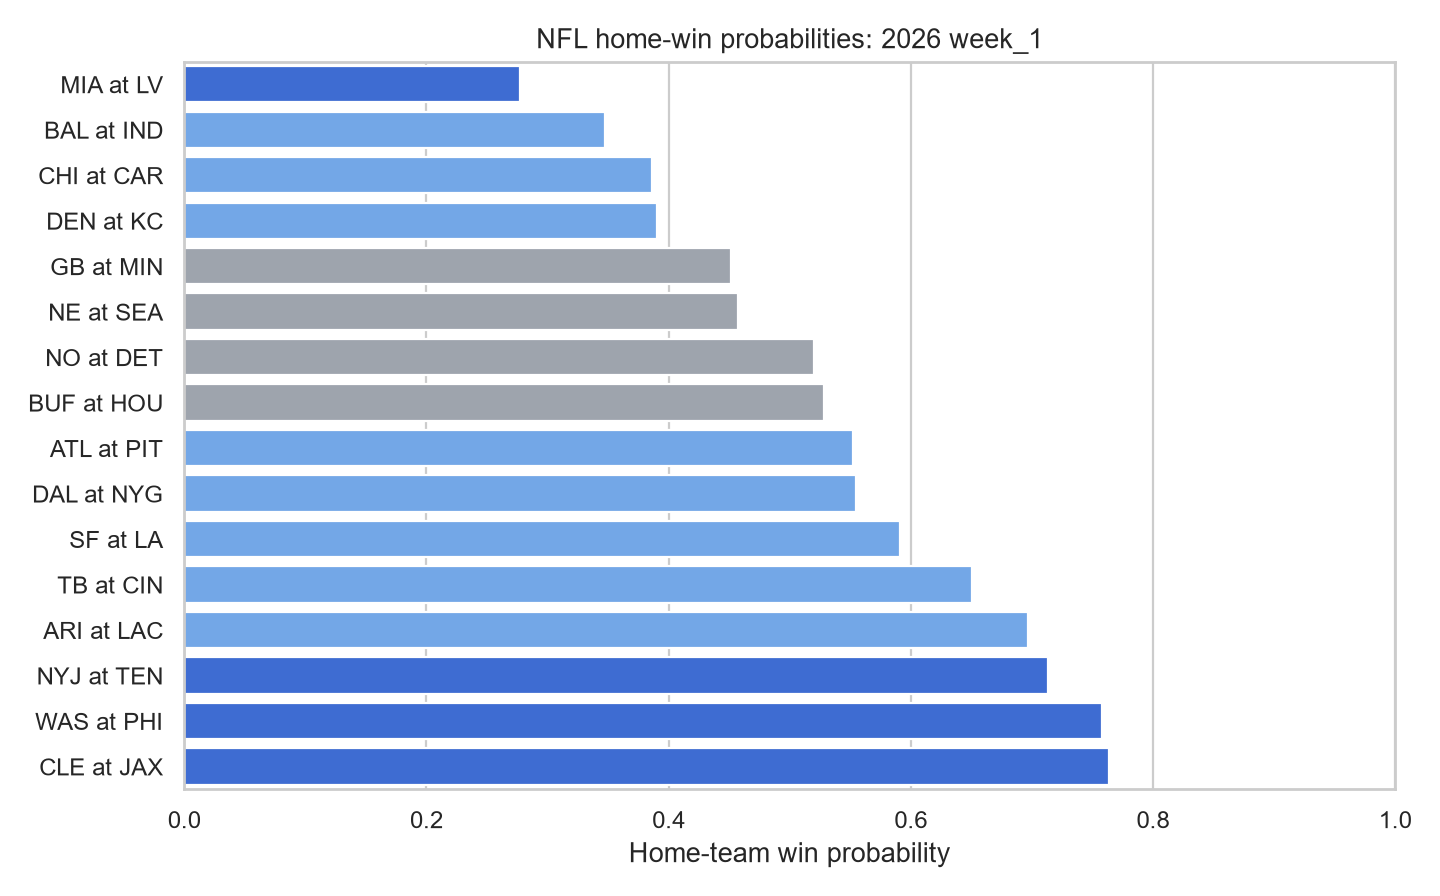
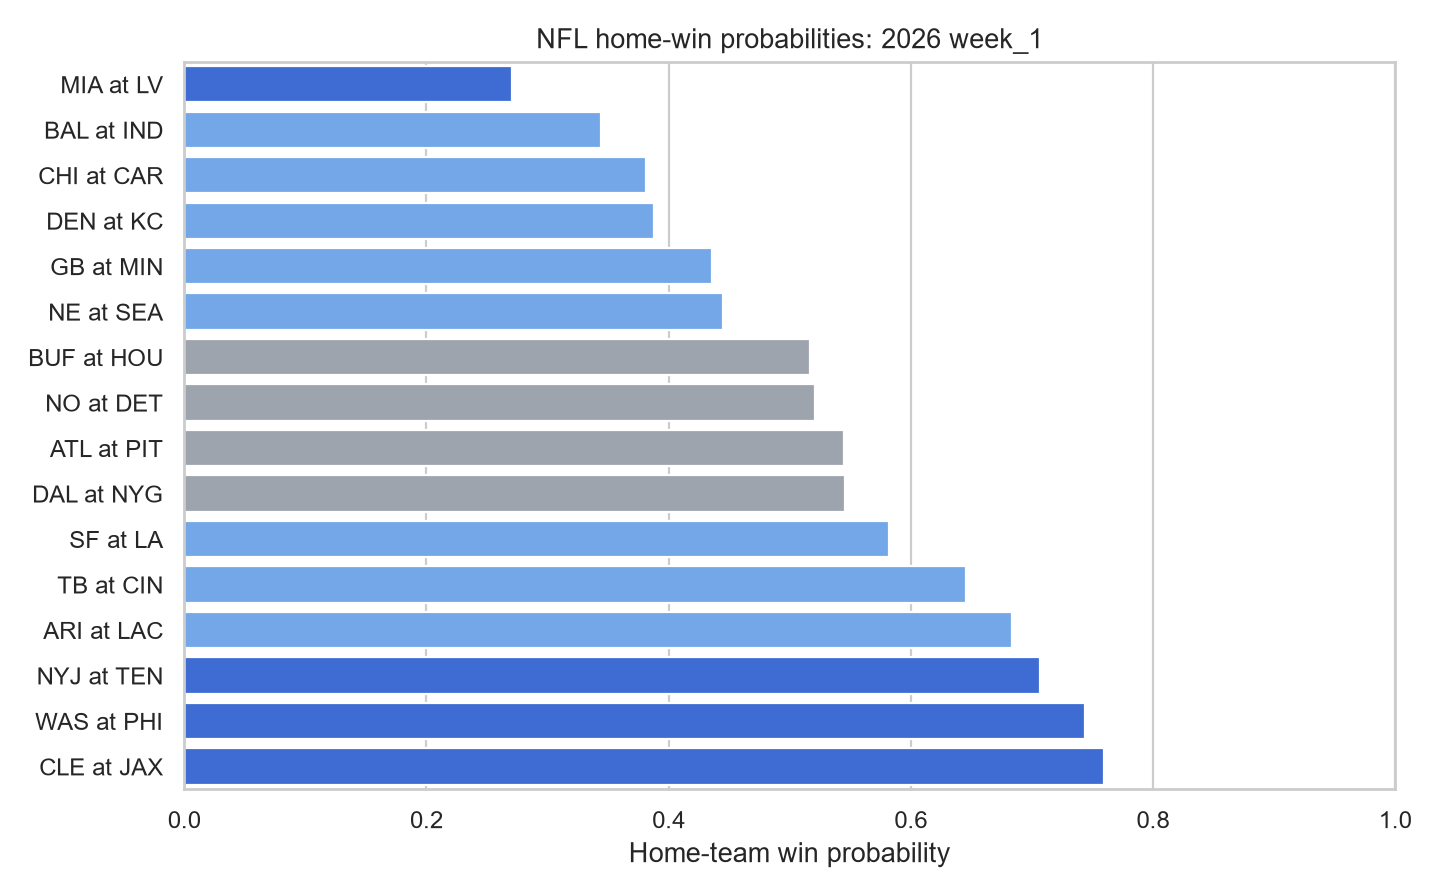
artifacts: verify calibrated weekly predictions

diff --git a/scripts/predict_week.py b/scripts/predict_week.py
@@ -76,7 +76,7 @@ def main() -> None:
             [
                 f"# NFL predictions: {args.season} {week_label}",
                 "",
-                "- Model: logistic regression with standardized 8-game EPA history.",
+                "- Model: sigmoid-calibrated logistic regression with standardized 8-game EPA history.",
                 f"- Games: {len(predictions)}",
                 f"- CSV: `{csv_path}`",
                 f"- Chart: `{chart_path}`",

diff --git a/artifacts/predictions/predictions_2026_week_1.md b/artifacts/predictions/predictions_2026_week_1.md
@@ -1,6 +1,6 @@
 # NFL predictions: 2026 week_1
 
-- Model: logistic regression with standardized 8-game EPA history.
+- Model: sigmoid-calibrated logistic regression with standardized 8-game EPA history.
 - Games: 16
 - CSV: `artifacts\predictions\predictions_2026_week_1.csv`
 - Chart: `artifacts\predictions\predictions_2026_week_1.png`
